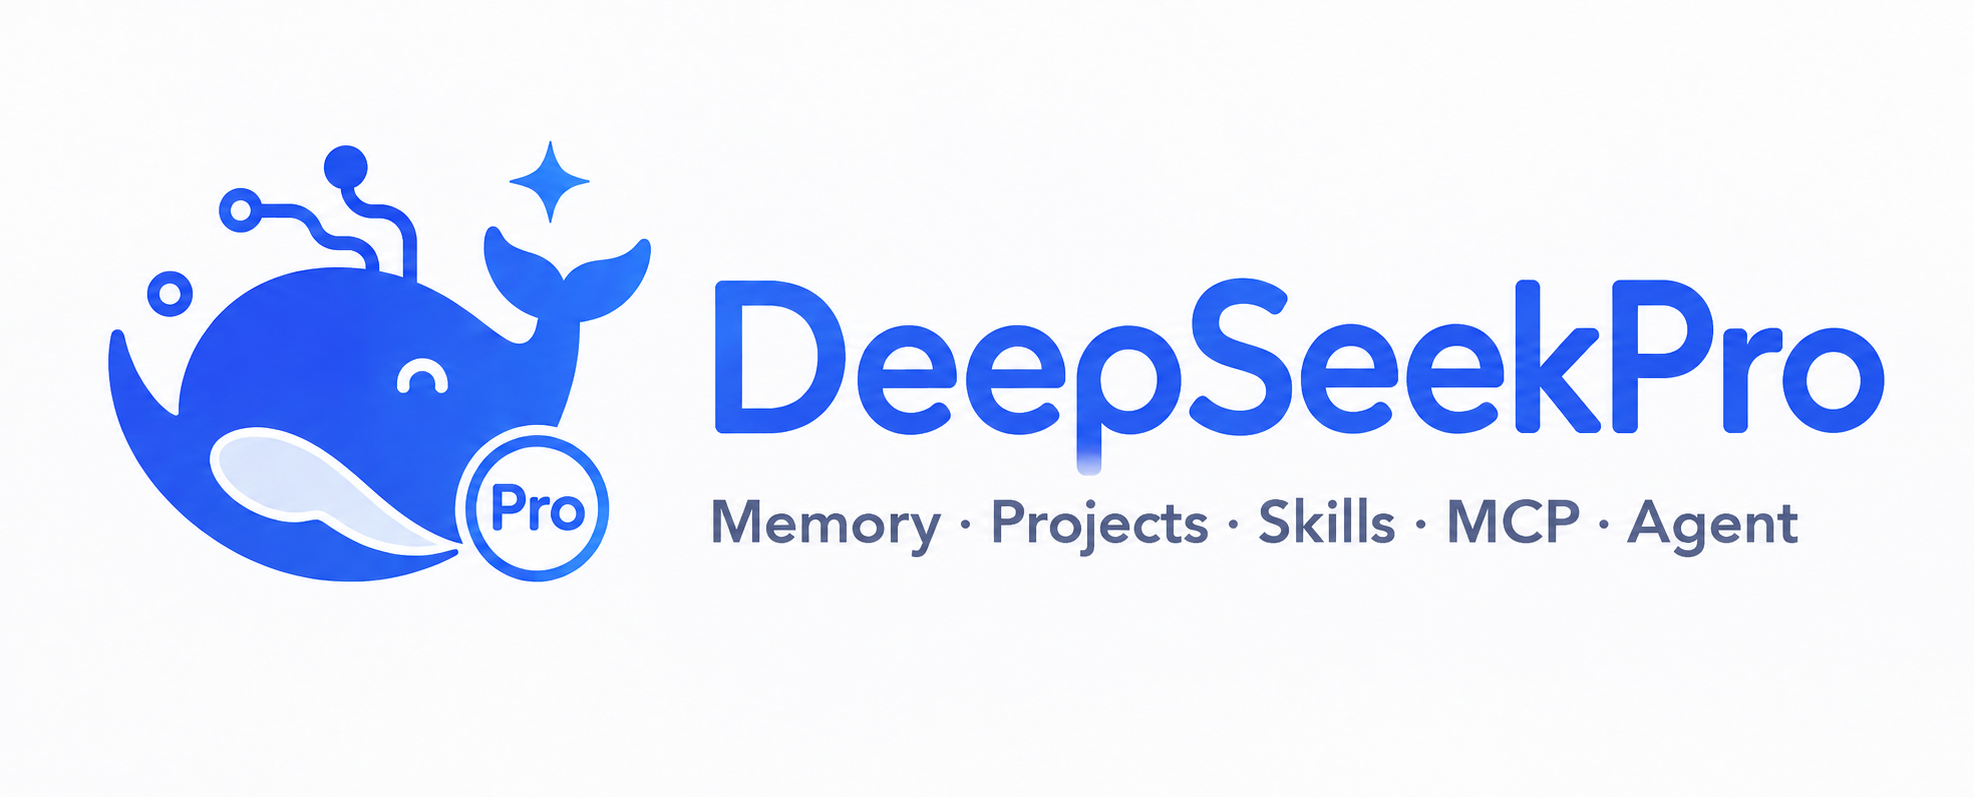
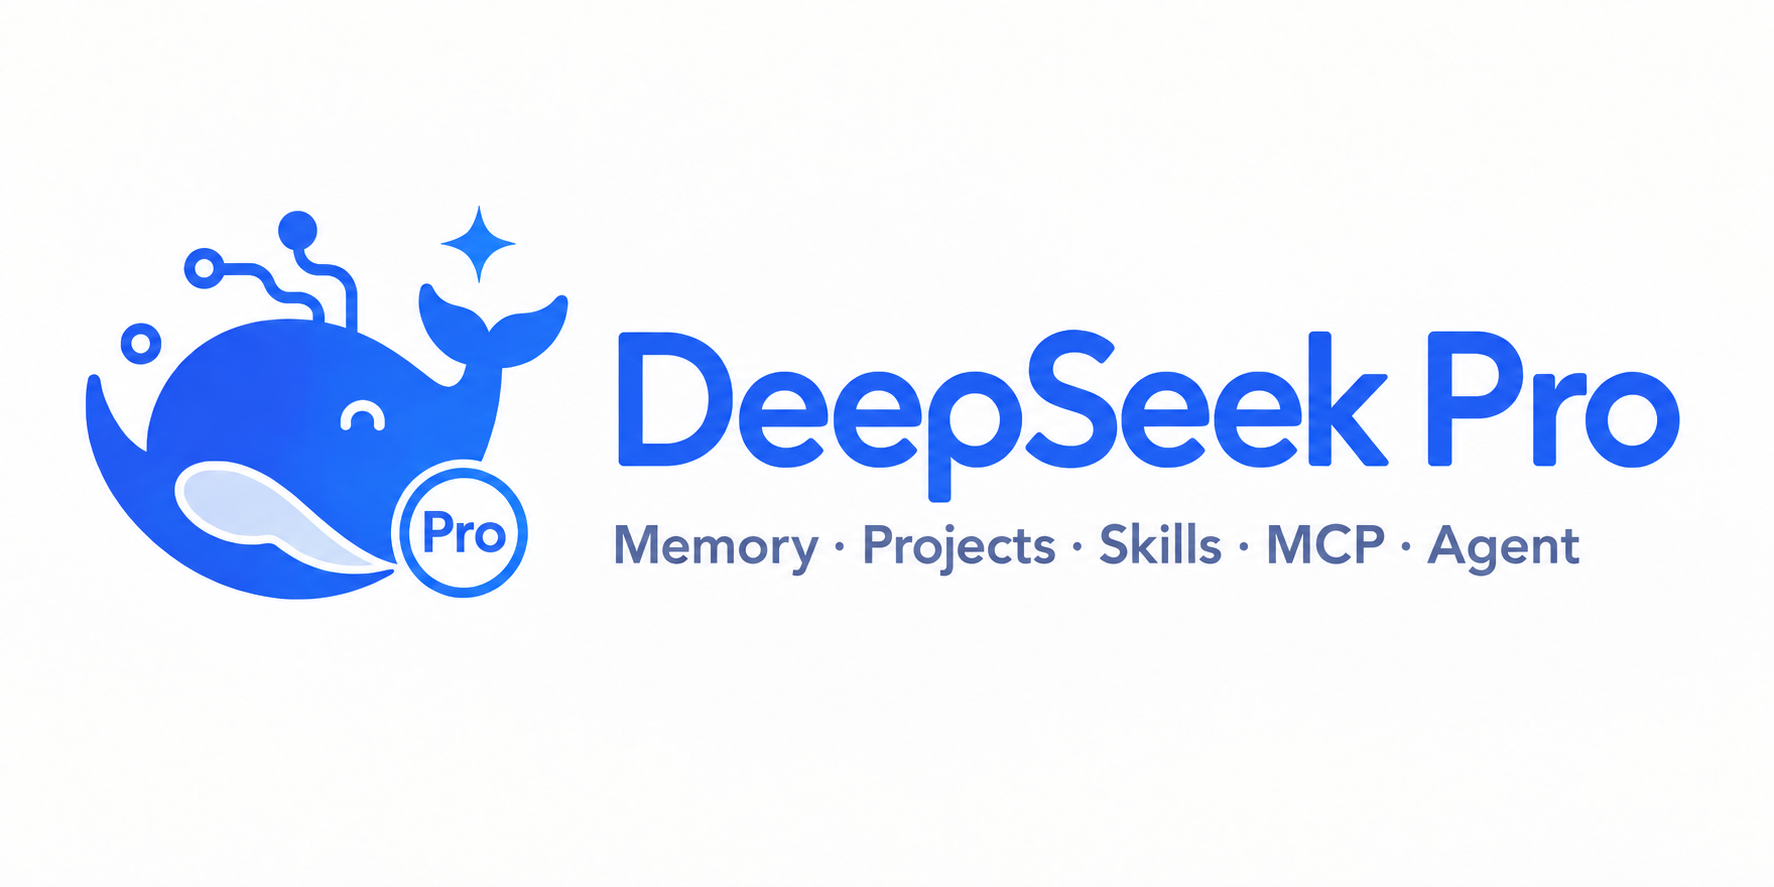
docs: 更新 DeepSeekPro 品牌文案与头图
将 README 当前品牌统一为 DeepSeekPro，移除仓库沿用旧名称的表述，并同步更新中英文说明与 README 头图资源。

Changed region(s): [[0.031, 0.1807, 0.9611, 0.7528], [0.186, 0.4517, 0.248, 0.5119]]

diff --git a/README_EN.md b/README_EN.md
@@ -1,12 +1,14 @@
 <p align="center">
-  <img src="assets/readme-hero.png" width="860" alt="DeepSeek++ DeepSeek browser extension and AI agent workspace">
+  <img src="assets/readme-hero.png" width="860" alt="DeepSeekPro DeepSeek browser extension and AI agent workspace">
 </p>
 
-<h1 align="center">DeepSeek++</h1>
+<h1 align="center">DeepSeekPro</h1>
 
 <p align="center">
-  <strong>DeepSeek browser extension for a bilingual AI agent workspace with memory, projects, Skills, MCP tools, multimodal media, browser control, saved snippets, artifact downloads, conversation export, and automation.</strong>
+  <strong>DeepSeekPro is a DeepSeek browser extension for a bilingual AI agent workspace with memory, projects, Skills, MCP tools, multimodal media, browser control, saved snippets, artifact downloads, conversation export, and automation.</strong>
 </p>
+
+<p align="center">We independently maintain DeepSeekPro as a browser workspace, continuously building a stronger local-first workflow around DeepSeek Web.</p>
 
 <p align="center">
   <a href="https://github.com/XiDee233/deepseek-pp_Dee/stargazers"><img alt="Stars" src="https://img.shields.io/github/stars/XiDee233/deepseek-pp_Dee?style=flat-square"></a>
@@ -34,7 +36,7 @@
 
 ## About This Repository
 
-This repository is an independent DeepSeek++ distribution maintained by **XiDee233** (Dee), derived from [zhu1090093659/deepseek-pp](https://github.com/zhu1090093659/deepseek-pp). Thanks to the upstream author for the excellent work.
+We are **XiDee233** (Dee), independently maintaining DeepSeekPro from [zhu1090093659/deepseek-pp](https://github.com/zhu1090093659/deepseek-pp). Thanks to the upstream author for the excellent work.
 
 The upstream DeepSeek++ project is open source under Apache-2.0. This repository was split from upstream `main` in September 2026 (baseline commit `0a02c72`) and has since been maintained standalone; it no longer tracks upstream. Future feature development, build artifacts, and release cadence are decided here.
 
@@ -42,11 +44,11 @@ Installation steps, build commands, extension ID notes, and release information 
 
 ## Product Positioning
 
-DeepSeek++ is an open-source browser extension for [DeepSeek Web](https://chat.deepseek.com), with support for Chrome, Edge, and Firefox. It turns DeepSeek Web into an AI agent workspace where users can run English or Simplified Chinese UI, MCP tools, image/video multimodal analysis, long-term memory, Skills, system prompt presets, web search, web fetch, conversation export, and scheduled automation in the same browser workflow.
+DeepSeekPro is an open-source browser extension for [DeepSeek Web](https://chat.deepseek.com), with support for Chrome, Edge, and Firefox. It turns DeepSeek Web into an AI agent workspace where users can run English or Simplified Chinese UI, MCP tools, image/video multimodal analysis, long-term memory, Skills, system prompt presets, web search, web fetch, conversation export, and scheduled automation in the same browser workflow.
 
-In plain terms, it is a DeepSeek Chrome extension, DeepSeek MCP tools extension, DeepSeek memory plugin, DeepSeek conversation export tool, and AI agent browser extension for DeepSeek Web.
+In plain terms, DeepSeekPro is a DeepSeek Chrome extension, DeepSeek MCP tools extension, DeepSeek memory plugin, DeepSeek conversation export tool, and AI agent browser extension for DeepSeek Web.
 
-Language can follow the browser or be set to English or Simplified Chinese. DeepSeek++ keeps the side panel, context menus, tool results, built-in Skill behavior, and continuation prompts in the selected language while preserving user-authored memories, presets, custom Skills, automation tasks, and sync data as written.
+Language can follow the browser or be set to English or Simplified Chinese. DeepSeekPro keeps the side panel, context menus, tool results, built-in Skill behavior, and continuation prompts in the selected language while preserving user-authored memories, presets, custom Skills, automation tasks, and sync data as written.
 
 ## Table of Contents
 
@@ -61,7 +63,7 @@ Language can follow the browser or be set to English or Simplified Chinese. Deep
 
 ## Feature Overview
 
-| Need | What DeepSeek++ provides |
+| Need | What DeepSeekPro provides |
 |------|--------------------------|
 | AI agent browser extension | Turns DeepSeek Web into a browser-based workspace that can continue tasks, call tools, reuse memory, and schedule automation. |
 | DeepSeek browser extension / DeepSeek Chrome extension | Adds side-panel chat, a floating chat launcher on normal web pages, right-click text sending, tool-result rendering, and Chrome / Edge / Firefox support for DeepSeek Web. |

diff --git a/README.md b/README.md
@@ -1,11 +1,11 @@
 <p align="center">
-  <img src="assets/readme-hero.png" width="860" alt="DeepSeek++ DeepSeek 浏览器插件和 AI Agent 工作台">
+  <img src="assets/readme-hero.png" width="860" alt="DeepSeekPro DeepSeek 浏览器插件和 AI Agent 工作台">
 </p>
 
-<h1 align="center">DeepSeek++</h1>
+<h1 align="center">DeepSeekPro</h1>
 
 <p align="center">
-  <strong>DeepSeek++：把 DeepSeek 网页版扩展成支持中英文体验、记忆、项目、Skill、MCP、多模态媒体、浏览器控制、保存项、产物下载、对话导出和自动化的 AI Agent 工作台</strong>
+  <strong>DeepSeekPro：把 DeepSeek 网页版扩展成支持中英文体验、记忆、项目、Skill、MCP、多模态媒体、浏览器控制、保存项、产物下载、对话导出和自动化的 AI Agent 工作台</strong>
 </p>
 
 <p align="center">
@@ -34,7 +34,7 @@
 
 ## 关于本仓库
 
-本仓库是 **XiDee233**（Dee）维护的 DeepSeek++ 独立版本，从 [zhu1090093659/deepseek-pp](https://github.com/zhu1090093659/deepseek-pp) 派生而来，感谢上游作者的出色工作。
+我们是 **XiDee233**（Dee）独立维护的 DeepSeekPro 项目，源自 [zhu1090093659/deepseek-pp](https://github.com/zhu1090093659/deepseek-pp)，感谢上游作者的出色工作。
 
 上游 DeepSeek++ 以 Apache-2.0 协议开源。本仓库于 2026 年 9 月从上游 `main` 分支分出（基线提交 `0a02c72`），此后作为独立仓库单独维护，不再跟随上游同步；功能演进、构建产物和发布节奏均由本仓库自行决定。
 
@@ -42,11 +42,11 @@
 
 ## 产品定位
 
-DeepSeek++ 是面向 [DeepSeek](https://chat.deepseek.com) 网页版的开源浏览器扩展，支持 Chrome、Edge 和 Firefox。它把 DeepSeek Web 扩展成 AI agent workspace，让用户在同一浏览器工作流里使用中英文界面、MCP 工具、图片/视频多模态分析、长期记忆、Skill、系统提示词预设、联网搜索、网页读取、对话导出和定时自动化。
+DeepSeekPro 是面向 [DeepSeek](https://chat.deepseek.com) 网页版的开源浏览器扩展，支持 Chrome、Edge 和 Firefox。它把 DeepSeek Web 扩展成 AI agent workspace，让用户在同一浏览器工作流里使用中英文界面、MCP 工具、图片/视频多模态分析、长期记忆、Skill、系统提示词预设、联网搜索、网页读取、对话导出和定时自动化。
 
-如果你在寻找 DeepSeek Chrome extension、DeepSeek MCP tools、DeepSeek memory plugin、DeepSeek conversation export 或 DeepSeek AI agent，DeepSeek++ 对应的是同一个本地优先的 DeepSeek 浏览器增强工作台。
+如果你在寻找 DeepSeek Chrome extension、DeepSeek MCP tools、DeepSeek memory plugin、DeepSeek conversation export 或 DeepSeek AI agent，DeepSeekPro 对应的是同一个本地优先的 DeepSeek 浏览器增强工作台。
 
-语言可设为跟随浏览器、简体中文或 English。DeepSeek++ 会让侧边栏、右键菜单、工具结果、内置 Skill 行为和自动续跑提示保持一致语言，同时保留用户自己写的记忆、预设、自定义 Skill、自动化任务和同步数据原文。
+语言可设为跟随浏览器、简体中文或 English。DeepSeekPro 会让侧边栏、右键菜单、工具结果、内置 Skill 行为和自动续跑提示保持一致语言，同时保留用户自己写的记忆、预设、自定义 Skill、自动化任务和同步数据原文。
 
 ## 目录
 
@@ -61,7 +61,7 @@ DeepSeek++ 是面向 [DeepSeek](https://chat.deepseek.com) 网页版的开源浏
 
 ## 功能速览
 
-| 需求 | DeepSeek++ 提供 |
+| 需求 | DeepSeekPro 提供 |
 |------|----------------|
 | AI agent browser extension / AI Agent 工作台 | 把 DeepSeek Web 扩展成可以持续执行任务、调用工具、复用记忆和调度自动化的浏览器内工作台。 |
 | DeepSeek browser extension / DeepSeek Chrome extension | 在 DeepSeek 网页版中加入侧边栏对话、普通网页悬浮聊天入口、右键发送文本、工具执行结果展示和 Chrome / Edge / Firefox 支持。 |
